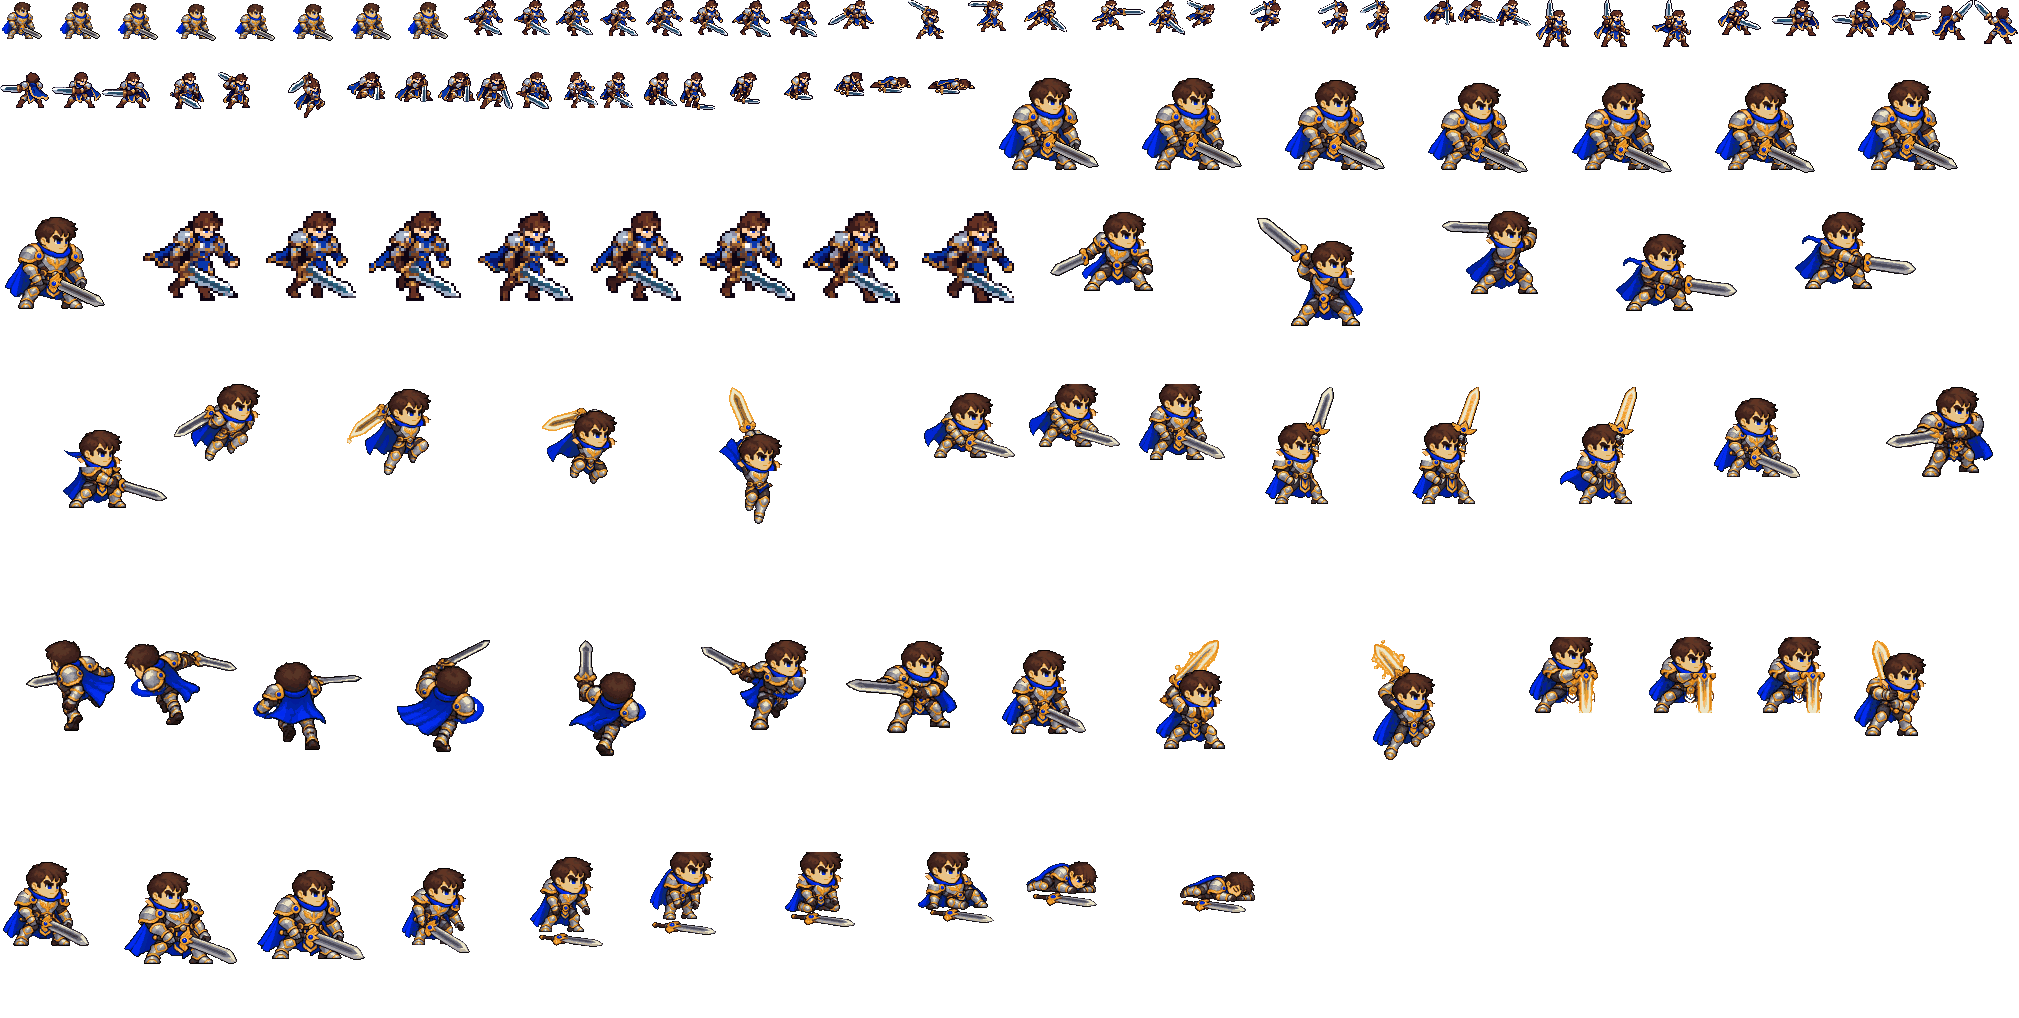
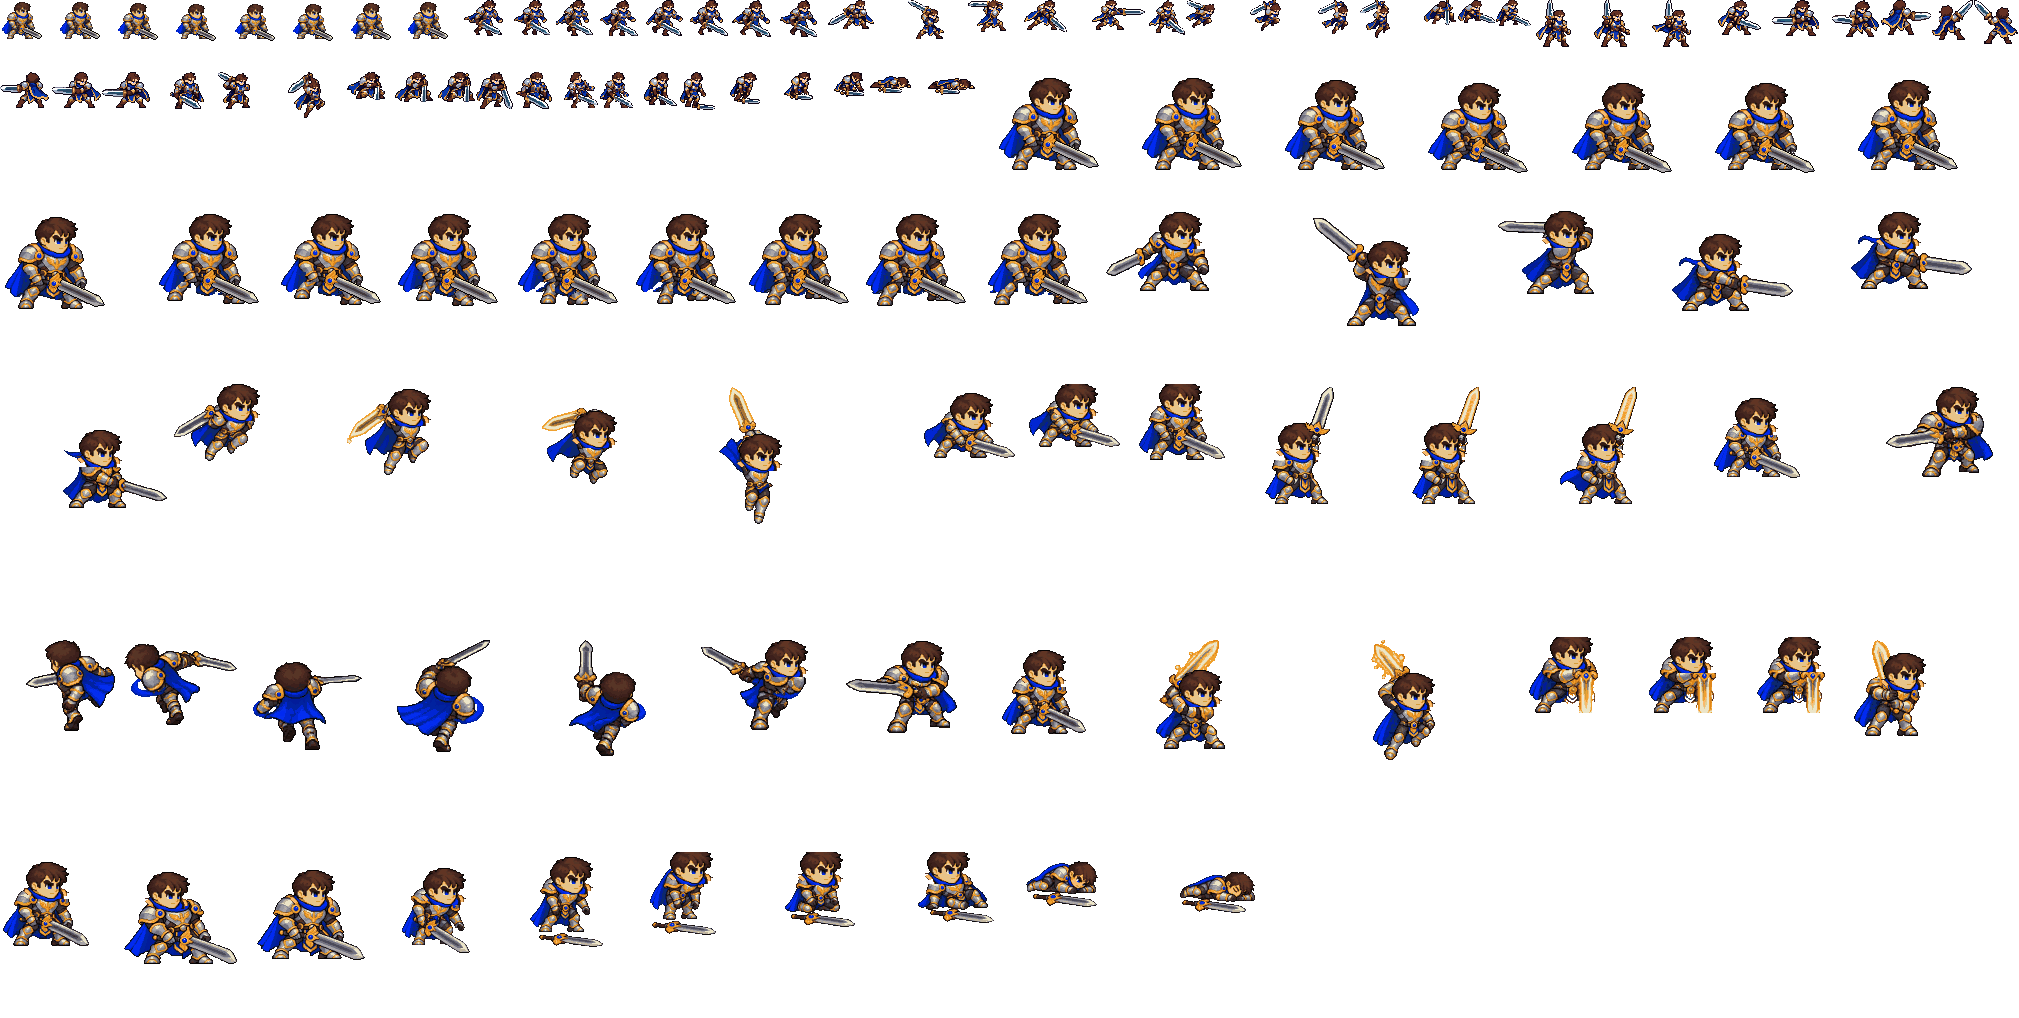
Garen's run from the dense idle: the lower legs step, the body one block (the user picked the run from the idle: 「用待机造型做跑步」)
tools/art/ppu_garen.py: run() - the dense idle's frame 0 with its two lower legs (RUN_FAR, RUN_NEAR: knee guard to sole, never the cape's blue or the blade) stepping as rigid pieces, each on the ground from 8 px in front to 7 behind and then swung forward up to 6 px high, the far one half a cycle on, behind the body (the skirt and the blade stay in front as in the idle); the rest one block 0-2 px down as a foot lands. The outline a leg shares with the body goes with the leg (left behind, it hung off the cape as a hook or crossed the moved leg as a dark line) and the edge it leaves is outlined again round the legs (strips.complete_outline, never under the soles); ground shut in is filled with the colours round it, the cape's loose specks dropped. The body stands where the 1x run stands (the mean of its frames, so it never sways). Every run frame carries the idle's head and chest pixel for pixel (2562/2562), no hole, one piece. All nine tags are drawn frames now; showcase and frame sheet regenerated.

Checks: ppu_hd --check garen clean.

Changed region(s): [[0.0624, 0.2132, 0.9985, 0.335]]

diff --git a/tools/art/ppu_garen.py b/tools/art/ppu_garen.py
@@ -23,7 +23,12 @@ the picture's face is (import_ppu_strips.paste_head searched round its skin), ex
 seen from behind, the death lying down). The slash's white arc across attack picture 4 and the burst over q_attack
 picture 5's legs leave nothing to keep, so those frames take the next picture; ult pictures 4-6's ground burst round
 the planted blade is cleared (the blade kept); the skill's raised blade, guard and fist go back over the pasted head
-(held beside it). The run is the 1x run scaled until it is made from the idle.
+(held beside it). The run (the user picked the idle for it: legs stepping, the body never bent) is the dense idle's
+frame 0 with its two lower legs stepping as rigid pieces (RUN_FAR, RUN_NEAR: knee guard to sole, the blade and the cape
+left with the body) - each on the ground from in front to behind, then swung forward lifted, the far one half a cycle
+on - and the rest one block a row or two down as a foot lands; the legs behind it (the skirt and the blade in front as
+in the idle), ground shut in where a leg was filled with the colours round it, the cape's loose specks dropped; the
+body stays put, the soles on the 1x run's ground row.
 
 idle: the first picture of garen_idle.png is the design; the loop is that design breathing (tools/art/idle_breathe.py,
 the 1x recipe: the body above the shins down 0-2 rows and a column forward, the head a frame late), the sword lifted out
@@ -368,6 +373,86 @@ def actions(pal, design):
     return out
 
 
+# the run: boxes (row0, row1, col0, col1) of the dense idle frame 0 (142 x 138) holding each lower leg, knee guard to
+# sole (the cape's blue and the blade never in them); one leg's cycle in dense px - forward of the standing place, and
+# lifted - from landing in front through pushing off behind to the swing; the body's dip as a foot lands
+RUN_FAR = ((75, 99, 14, 41),)
+RUN_NEAR = ((79, 88, 60, 87), (88, 99, 57, 87))
+RUN_DX = [8, 3, -2, -7, -5, 0, 5, 9]
+RUN_LIFT = [0, 0, 0, 0, 3, 6, 5, 1]
+RUN_BOB = [2, 1, 0, 1, 2, 1, 0, 1]
+
+
+def run(idle0, ones):
+    """The 8 dense run frames from the dense idle's frame 0, each on round(PPU x its 1x run frame), the body where the
+    idle's stands on the 1x run's ground (see the module's notes)."""
+    a = idle0.astype(int)
+    h, w = a.shape[:2]
+    op = a[..., 3] > 0
+    blue = op & (a[..., 2] > a[..., 0] + 40) & (a[..., 2] > 90)
+    blade = blade_mask(idle0, PPU)
+    blade |= op & ndimage.binary_dilation(blade) & (lum(a) < 70)
+
+    def boxes(spec):
+        m = np.zeros((h, w), bool)
+        for r0, r1, c0, c1 in spec:
+            m[r0:r1, c0:c1] = True
+        return m & op & ~blue & ~blade
+
+    far, near = boxes(RUN_FAR), boxes(RUN_NEAR)
+    # the outline a leg shares with the body goes with the leg (left behind it hung off the cape as a hook, or crossed
+    # the leg as a dark line); the body's edge it leaves open is closed again below
+    dark = op & (lum(a) < 60) & ~blade
+    far |= dark & ndimage.binary_dilation(far, structure=np.ones((3, 3))) & ~near
+    near |= dark & ndimage.binary_dilation(near, structure=np.ones((3, 3))) & ~far
+    body = op & ~far & ~near
+    fx, fy = feet(idle0)
+    # where the 1x run stands, from each frame's centre (the mean of its frames: the old run's own legs move)
+    stood = [feet(one) for one in ones]
+    sx = float(np.mean([x - one.shape[1] / 2 for (x, _), one in zip(stood, ones)]))
+    sy = float(np.mean([y - one.shape[0] / 2 for (_, y), one in zip(stood, ones)]))
+    pad = 12
+    zone = np.zeros((h + 2 * pad, w + 2 * pad), bool)
+    zone[pad:pad + h, pad:pad + w] = ndimage.binary_dilation(far | near, iterations=12)
+    sole = int(round(fy)) - 1 + pad
+    out = []
+    for k, one in enumerate(ones):
+        f = np.zeros((h + 2 * pad, w + 2 * pad, 4), np.uint8)
+        for mask, ph in ((far, (k + 4) % 8), (near, k), (body, None)):
+            dx, dy = (RUN_DX[ph], -RUN_LIFT[ph]) if ph is not None else (0, RUN_BOB[k])
+            ys, xs = np.nonzero(mask)
+            f[ys + pad + dy, xs + pad + dx] = idle0[ys, xs]
+        opf = f[..., 3] > 0
+        holes = ndimage.binary_fill_holes(opf) & ~opf
+        if holes.any():
+            f = N.fill_behind(f, holes)
+        # the cape's specks left where a leg stood in front of it: a pixel with two or fewer neighbours goes
+        for _ in range(2):
+            opf = f[..., 3] > 0
+            n = ndimage.convolve(opf.astype(int), np.ones((3, 3), int), mode="constant") - opf
+            f[opf & (n <= 2) & zone] = 0
+        # the body's edge a leg left: outlined again (round the legs only, never under the soles)
+        f, _, _ = G.complete_outline(f, feet=sole, keep=~zone)
+        opf = f[..., 3] > 0
+        holes = ndimage.binary_fill_holes(opf) & ~opf          # a pocket the new outline shut in
+        if holes.any():
+            f = N.fill_behind(f, holes)
+        # on the 1x run frame: the idle's feet (the body's standing place, not the stepping legs') where the 1x run stands
+        h1, w1 = one.shape[:2]
+        W, H = ppu_hd.hd_size(w1, h1, PPU)
+        ys, xs = np.nonzero(f[..., 3])
+        while True:
+            dx = int(round(sx * PPU + W / 2 - (fx + pad)))
+            dy = int(round(sy * PPU + H / 2 - (fy + pad)))
+            if ys.min() + dy >= 3 and xs.min() + dx >= 3 and ys.max() + dy < H - 3 and xs.max() + dx < W - 3:
+                break
+            W, H = W + 2, H + 2
+        g = np.zeros((H, W, 4), np.uint8)
+        g[ys + dy, xs + dx] = f[ys, xs]
+        out.append(g)
+    return out
+
+
 def write_strip(tag, frames, ones):
     """A tag's dense frames as ppu_hd.py's drawn strip: assets/source/ppu/garen_<tag>.png (left to right, 1 px apart,
     top-aligned) and garen_<tag>.json with the sizes when a frame is grown beyond round(PPU x its 1x frame)."""
@@ -548,6 +633,7 @@ def main():
     if args.actions or args.review:
         made = actions(pal, idle_hd[0])
         sheet = ppu_hd.read_sheet(STEM)
+        made["run"] = run(idle_hd[0], [f for f, _ in sheet["run"]])
         for tag, frames in made.items():
             if args.actions:
                 grown = write_strip(tag, frames, [f for f, _ in sheet[tag]])
